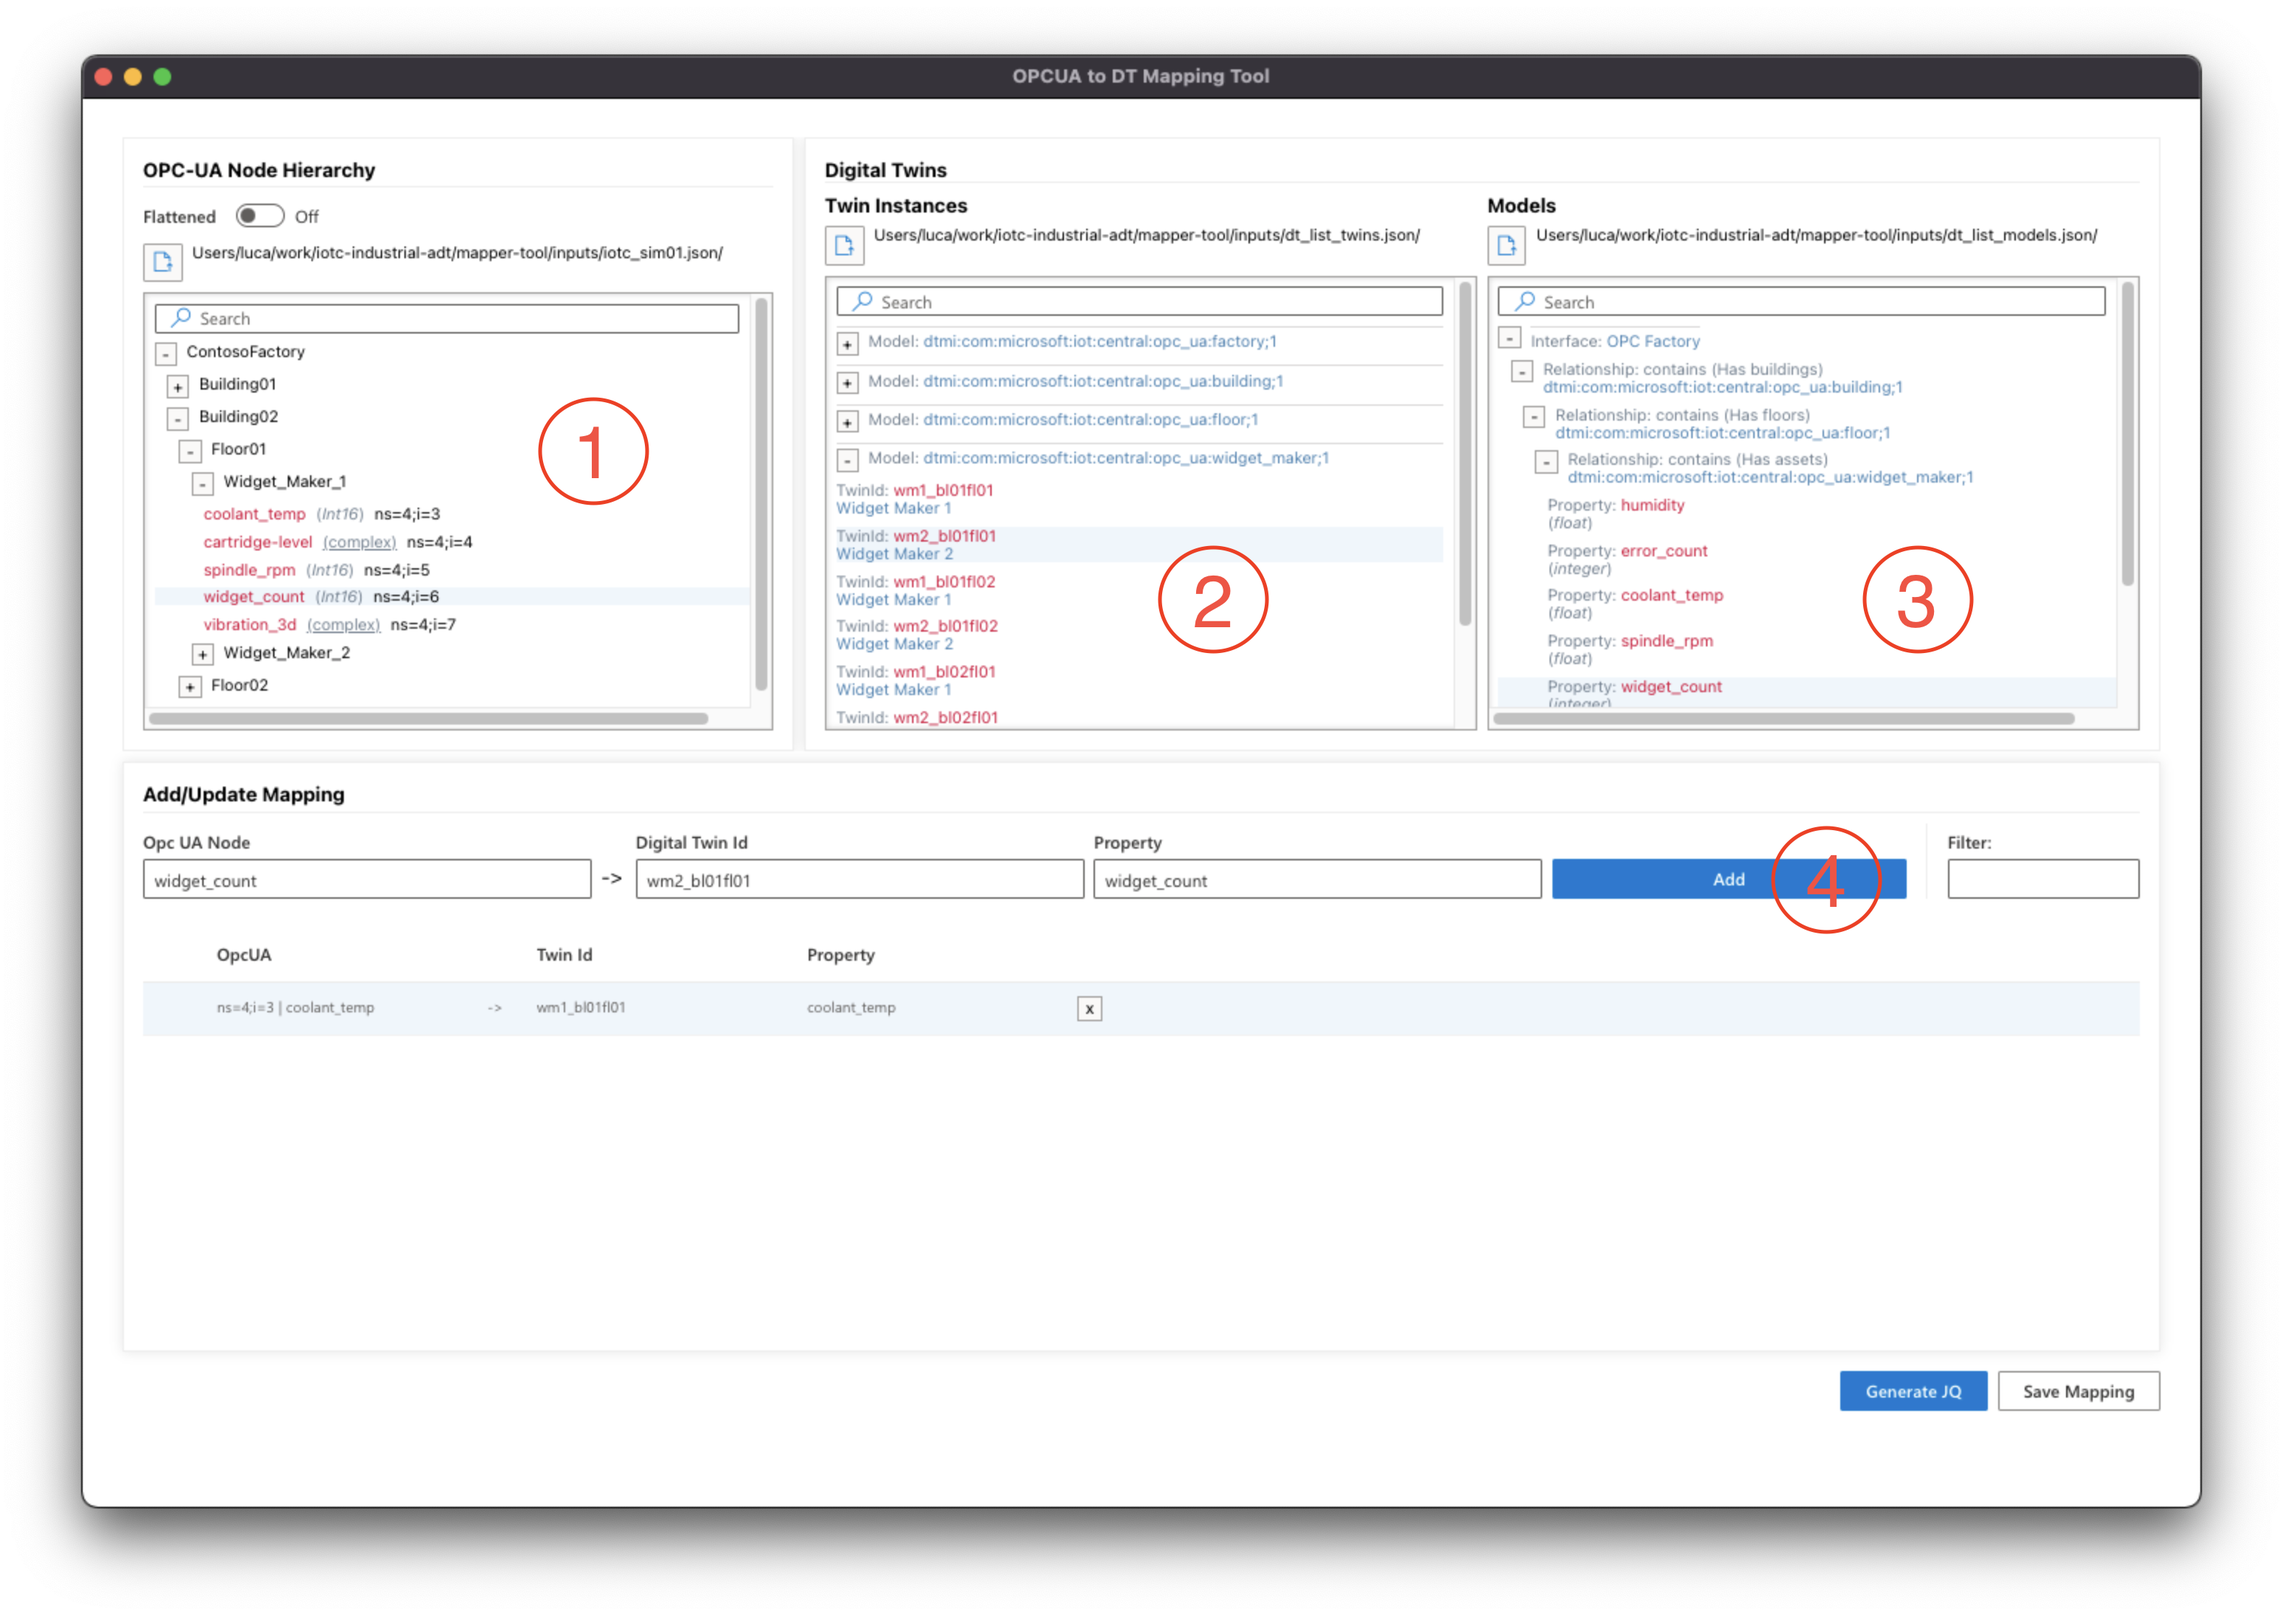
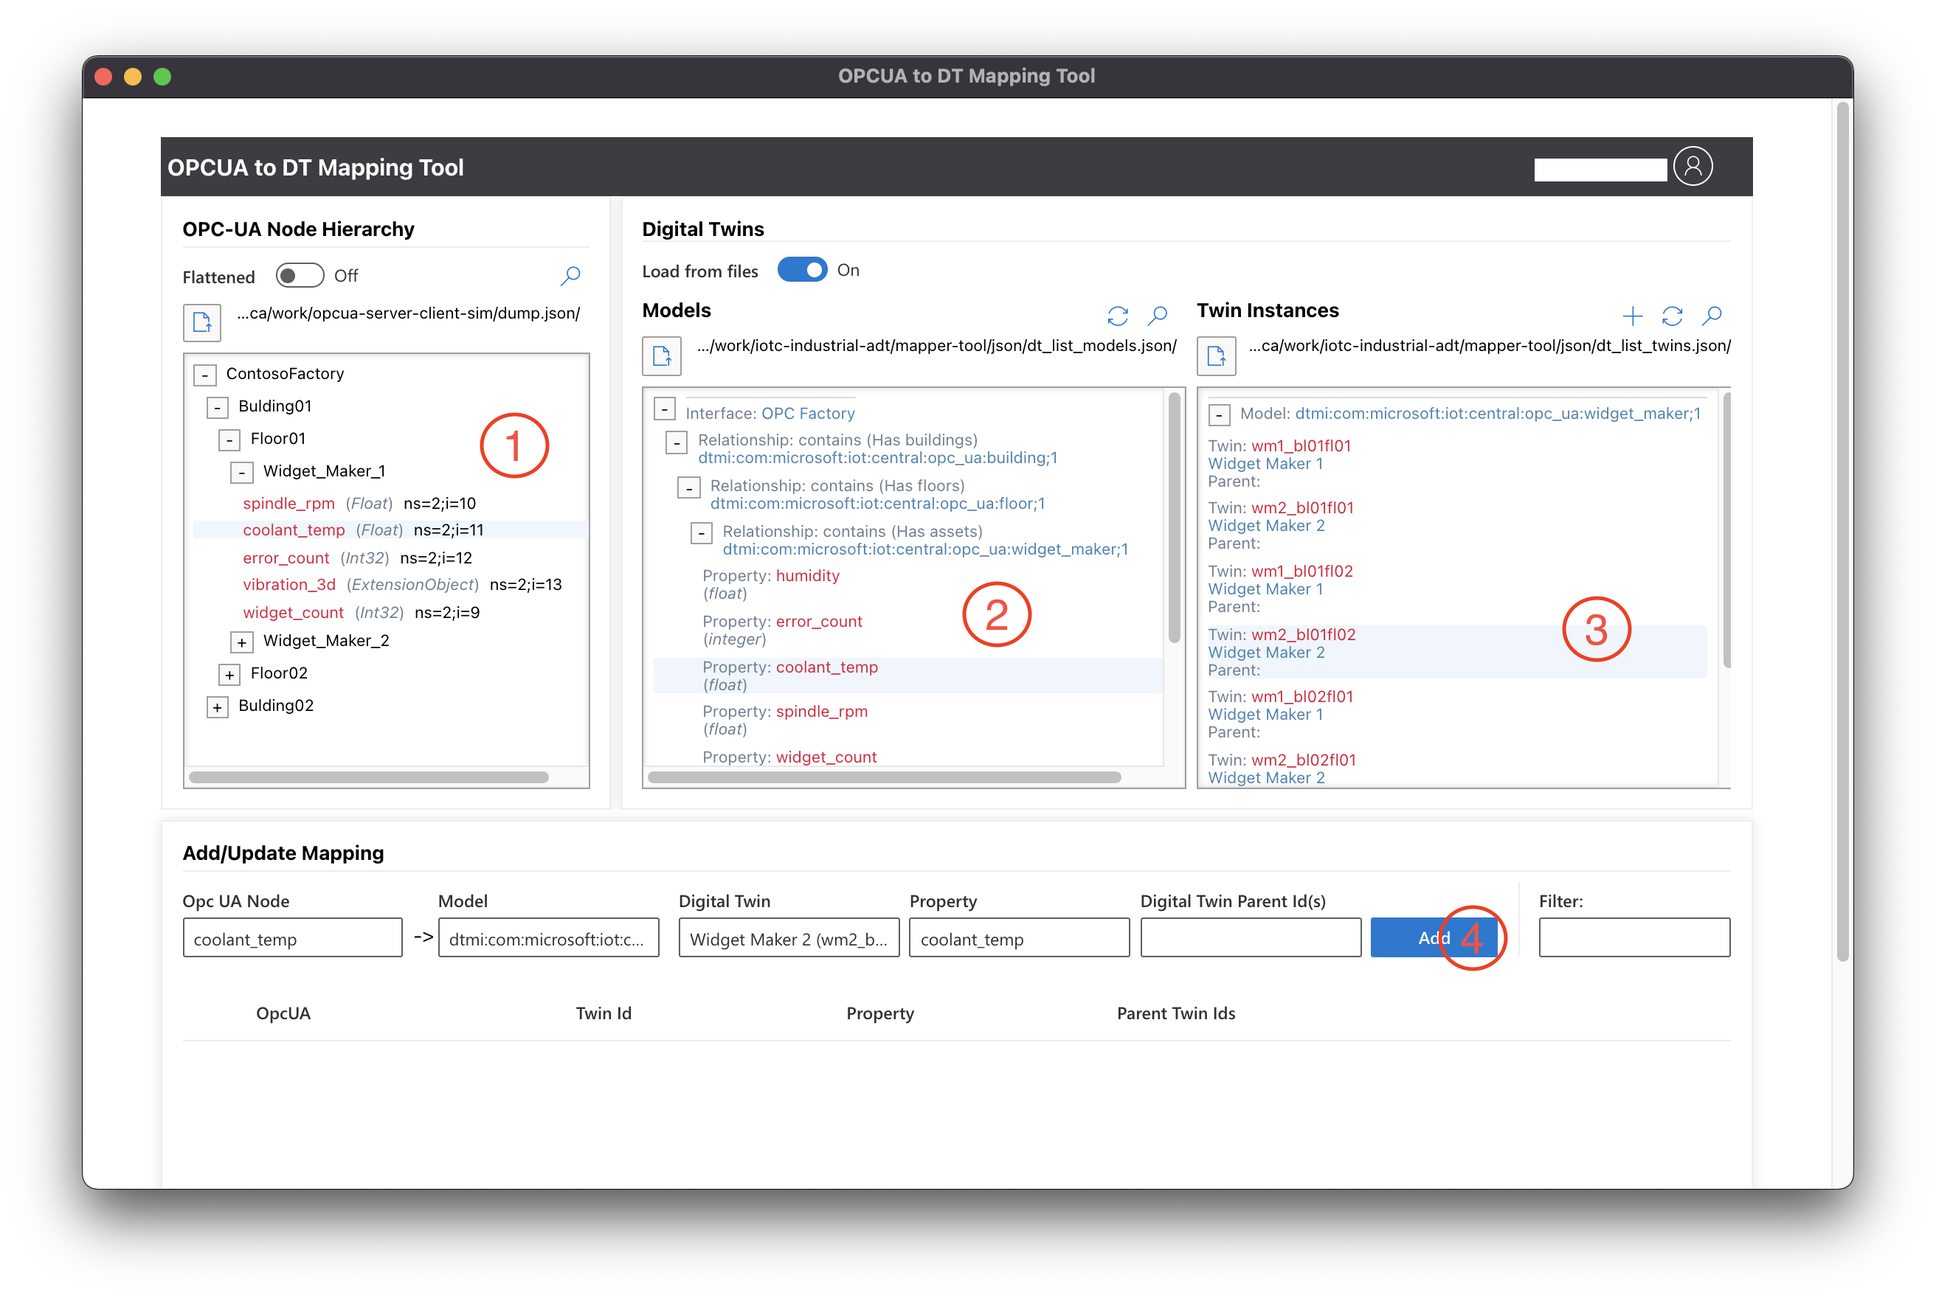
update docs

diff --git a/mapper-tool/README.md b/mapper-tool/README.md
@@ -31,18 +31,18 @@ Builds the app for production to the `out` folder.
 
 The current version of this tool makes the following assumptions:
 
-- The Twins to which you want to map the OPC-UA data already exist.
-- The OPC-UA node hierarchy, the list of existing Digital Twins and their models are co-located with the tool so that they can be loaded in using a file load dialog.
+- The OPC-UA node hierarchy is known by the user and can be provided through a JSON file with format described in next section.
+- The Twins for which mapping will not be defined but a potential relationship with them can be created, must exist.
 - The input files are JSON files with the formats described in the next section.
 
-#### Input file formats:
+### Input file formats:
 
 - **OPCUA**: An array containing (possibly nested) objects.
 
-  - There are three types of objects: 
-     1) namespace object, which is a parent node in a node hierarchy and does not contain telemetry,
-     2) tag node, which represents telemetry, and
-     3) property, which describes a field of a complex type.
+  - There are three types of objects:
+    1.  namespace object, which is a parent node in a node hierarchy and does not contain telemetry,
+    2.  tag node, which represents telemetry, and
+    3.  property, which describes a field of a complex type.
   - A namespace object should contain a key for each node it contains, where the key is the node id or name. If the namespace object represents an asset and do directly contains tag nodes (telemetry), it should list the tag nodes in an array under the key, 'tags'.
   - A tag node, which represents a telemetry value, must include a node id and type. It may optionally include a name.
     - If the node type is a complex type, the tag node should include a 'properties' key that contains an array of property objects.
@@ -108,26 +108,76 @@ The current version of this tool makes the following assumptions:
                       },
   </pre>
 
-- **ADT Twin Instances**: The format of the Digital twin instances input is a subset of the response returned by the Digital Twin's [Query Twins REST API](https://docs.microsoft.com/en-us/rest/api/digital-twins/dataplane/query/querytwins). The response properties required for the Twins input file are **$dtId** and **$metadata** (and its contents). If a property called **name**  is defined for the twin, this property will be used as the twin's friendly name and displayed in the mapping tool. The API response can be directly used as input; any unneeded properties will be ignored. Note that  **continuationToken**, if present, will also be ignored. That means that if your twins query returns multiple pages of responses, you will need to concatenate all the responses'  **value** arrays into a single array.
+- **ADT Twin Instances**: The format of the Digital twin instances input is a subset of the response returned by the Digital Twin's [Query Twins REST API](https://docs.microsoft.com/en-us/rest/api/digital-twins/dataplane/query/querytwins). The response properties required for the Twins input file are **$dtId** and **$metadata** (and its contents). If a property called **name** is defined for the twin, this property will be used as the twin's friendly name and displayed in the mapping tool. The API response can be directly used as input; any unneeded properties will be ignored. Note that **continuationToken**, if present, will also be ignored. That means that if your twins query returns multiple pages of responses, you will need to concatenate all the responses' **value** arrays into a single array.
 
-- **ADT Models**: The DTDL models for the twin instances should be provided as the input. These models can be retrieved by calling the [DigitalTwinsModels List](https://docs.microsoft.com/en-us/rest/api/digital-twins/dataplane/models/digitaltwinmodels_list#list-models-(include-dependencies-and-definitions)) API and including the **includeModelDefinition** URI parameter. 
+- **ADT Models**: The DTDL models for the twin instances should be provided as the input. These models can be retrieved by calling the [DigitalTwinsModels List](<https://docs.microsoft.com/en-us/rest/api/digital-twins/dataplane/models/digitaltwinmodels_list#list-models-(include-dependencies-and-definitions)>) API and including the **includeModelDefinition** URI parameter.
 
-#### Mapping
+### Setup Azure authentication (optional)
+
+The tool, if configured with authentication details, can load Azure Digital Twins data (models and digital twins) directly from an existing instance. This can be useful when ontology or twins structure may change or when generating a static file is not possible.
+
+Follow these steps to configure the tool before building it:
+
+1. Create an Azure App Registration ([https://docs.microsoft.com/en-gb/graph/auth-register-app-v2](https://docs.microsoft.com/en-gb/graph/auth-register-app-v2)).
+   - Make sure to add "Mobile and desktop applications" platform and select the "MSAL only" redirect URI provided by default. Also copy its value as will be needed for configuration.
+2. Edit required permissions in application manifest.
+   Add below items under the _"requiredResourceAccess"_ section:
+   ![manifest](../media/aad_manifest.png)
+
+```json
+{
+			"resourceAppId": "0b07f429-9f4b-4714-9392-cc5e8e80c8b0",
+			"resourceAccess": [
+				{
+					"id": "4589bd03-58cb-4e6c-b17f-b580e39652f8",
+					"type": "Scope"
+				}
+			]
+		},
+		{
+			"resourceAppId": "797f4846-ba00-4fd7-ba43-dac1f8f63013",
+			"resourceAccess": [
+				{
+					"id": "41094075-9dad-400e-a0bd-54e686782033",
+					"type": "Scope"
+				}
+			]
+		},
+		{
+			"resourceAppId": "00000003-0000-0000-c000-000000000000",
+			"resourceAccess": [
+				{
+					"id": "e1fe6dd8-ba31-4d61-89e7-88639da4683d",
+					"type": "Scope"
+				}
+			]
+		}
+```
+
+3. Copy "Redirect URI" from step above and both "Application (client) ID" and "Directory (tenant) ID" from the _Overview_ tab of the application in the portal.
+4. Create a file called _".env"_ in the tool root folder and add these lines replacing values with inputs from previous steps:
+
+```env
+CLIENT_ID = <APPLICATION_CLIENT_ID>
+TENANT_ID = <DIRECTORY_ID>
+REDIRECT_URL = <PLATFORM_REDIRECT_URI>
+```
+
+### Mapping
 
 1. Start by loading the JSON files for the OPC-UA nodes, the Digital Twin instances and the Digital Twin models that describe those instances.
    Select the file load buttons \
- ![load_button](../media/load_button.png) \
- at the top of each input column to open the file load dialog, navigate to and select the desired input file.
+   ![load_button](../media/load_button.png) \
+   at the top of each input column to open the file load dialog, navigate to and select the desired input file.
 
 2. After loading the input files, mapping the nodes is fairly straightforward:
 
    ![step1](../media/step1.png) In the OPCUA column, click on the tag node (telemetry) you want to map.
-   
-   ![step2](../media/step2.png) In the Twin instances column, click on the instance to which you want to map the selected OPCUA node's telemetry.
-   
-   ![step3](../media/step3.png) In the Models column, click on the property of the twin that should receive the telemetry data.
 
-   Each clicked row will be highlighted. To deselect it, click it again.
+   ![step2](../media/step2.png) In the Models column, click on the property of the twin that should receive the telemetry data.
+
+   ![step3](../media/step3.png) In the Twin instances column, click on the instance to which you want to map the selected OPCUA node's telemetry.
+   If you have created a new twin, this will appear at the end of the list (see next section).
 
    ![step4](../media/step4.png) When a row is selected, its pertinent content (needed to generate the JQ transformation) is loaded into the working row in the **Add/Update Mapping** section. Once the working row has all three inputs, the **Add** button will be enabled and you can save the mapped row.
 
@@ -136,3 +186,17 @@ The current version of this tool makes the following assumptions:
 - To update a mapped row, first select it by hovering over the row and clicking the check-circle that appears at the start of the row. The checked row's contents will be filled into the working row and the corresponding rows in the input columns will be highlighted. Choose the desired input row(s) and then press the 'Update' button.
 - Hover over a mapped row to see the details of mapping.
 - The **Filter** field can be used to filter the view of the mapped rows.
+
+### Create new twins
+
+The tool allows to define mappings containing details needed for automatic creation of Digital Twins during telemetry flow.
+
+1. Select OPC node and property from the "Models" view.
+2. Click on the "+" icon of the "Twin Instances" to show the "New Twin" form.
+   ![newtwin](../media/newtwin.png)
+3. Insert the Id for the twin to be created.
+   - (optional) advanced options are available by expanding the form clicking on the left arrow icon; those include a friendly name for the twin (see #TODO) and available parent relationships.
+     ![newtwinadv](../media/newtwin_advanced.png)
+4. Click on the "+" button to save the new twin.
+
+   > This will not really create the digital twin on the ADT instance but just a new selectable entry in the twins list to be used for the mapping. The actual twin will be then created once telemetry for the defined property reaches the export pipeline in IoT Central.
